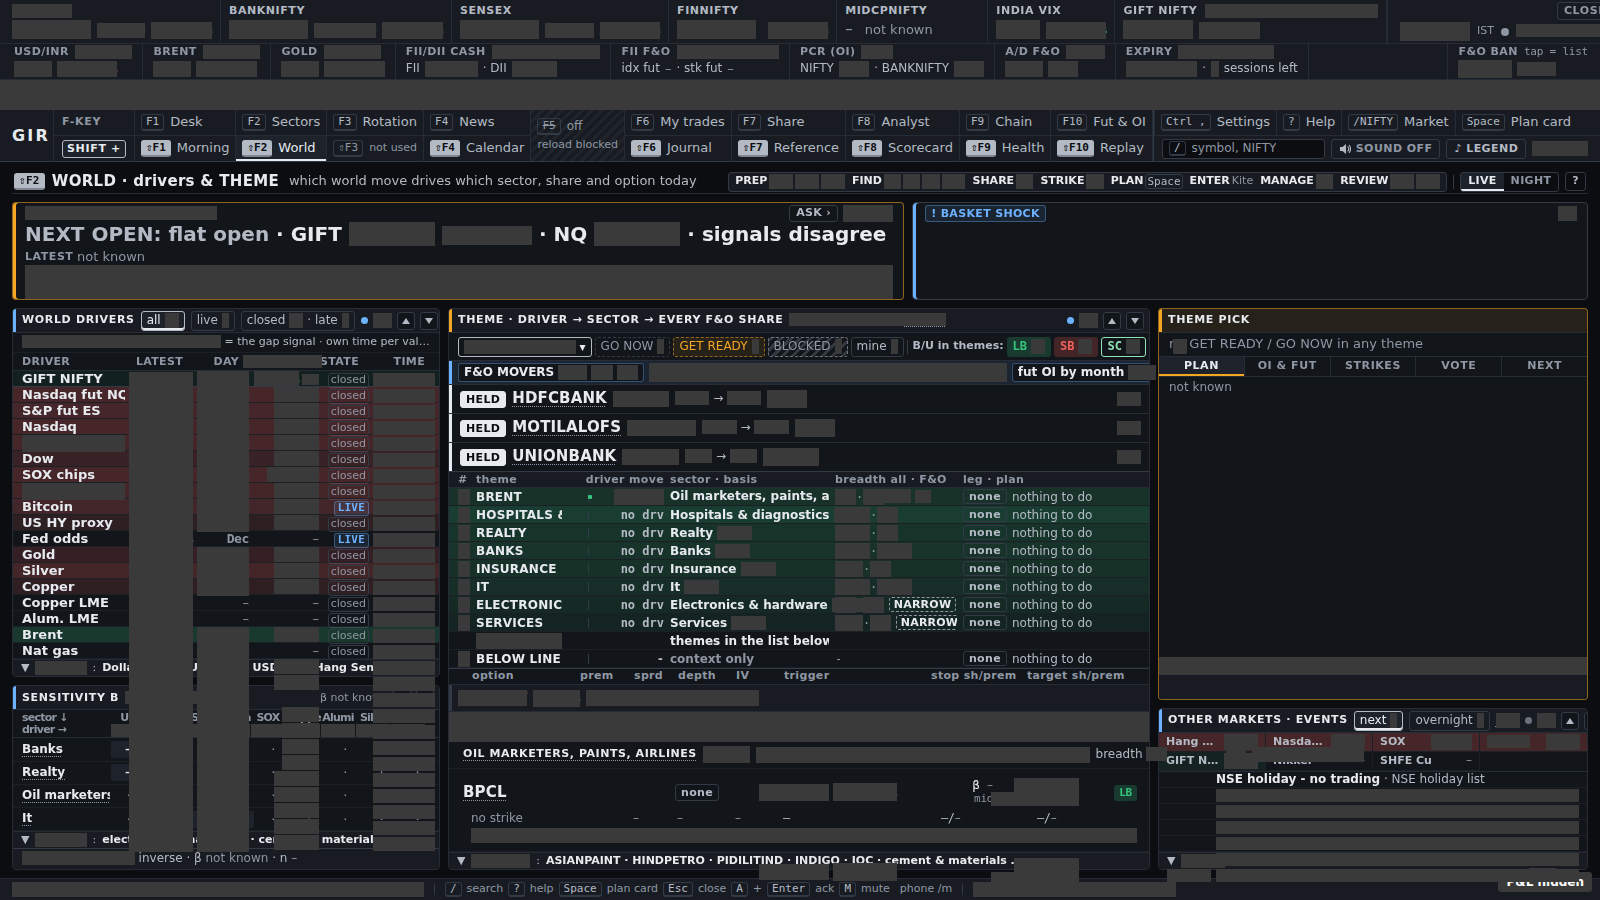
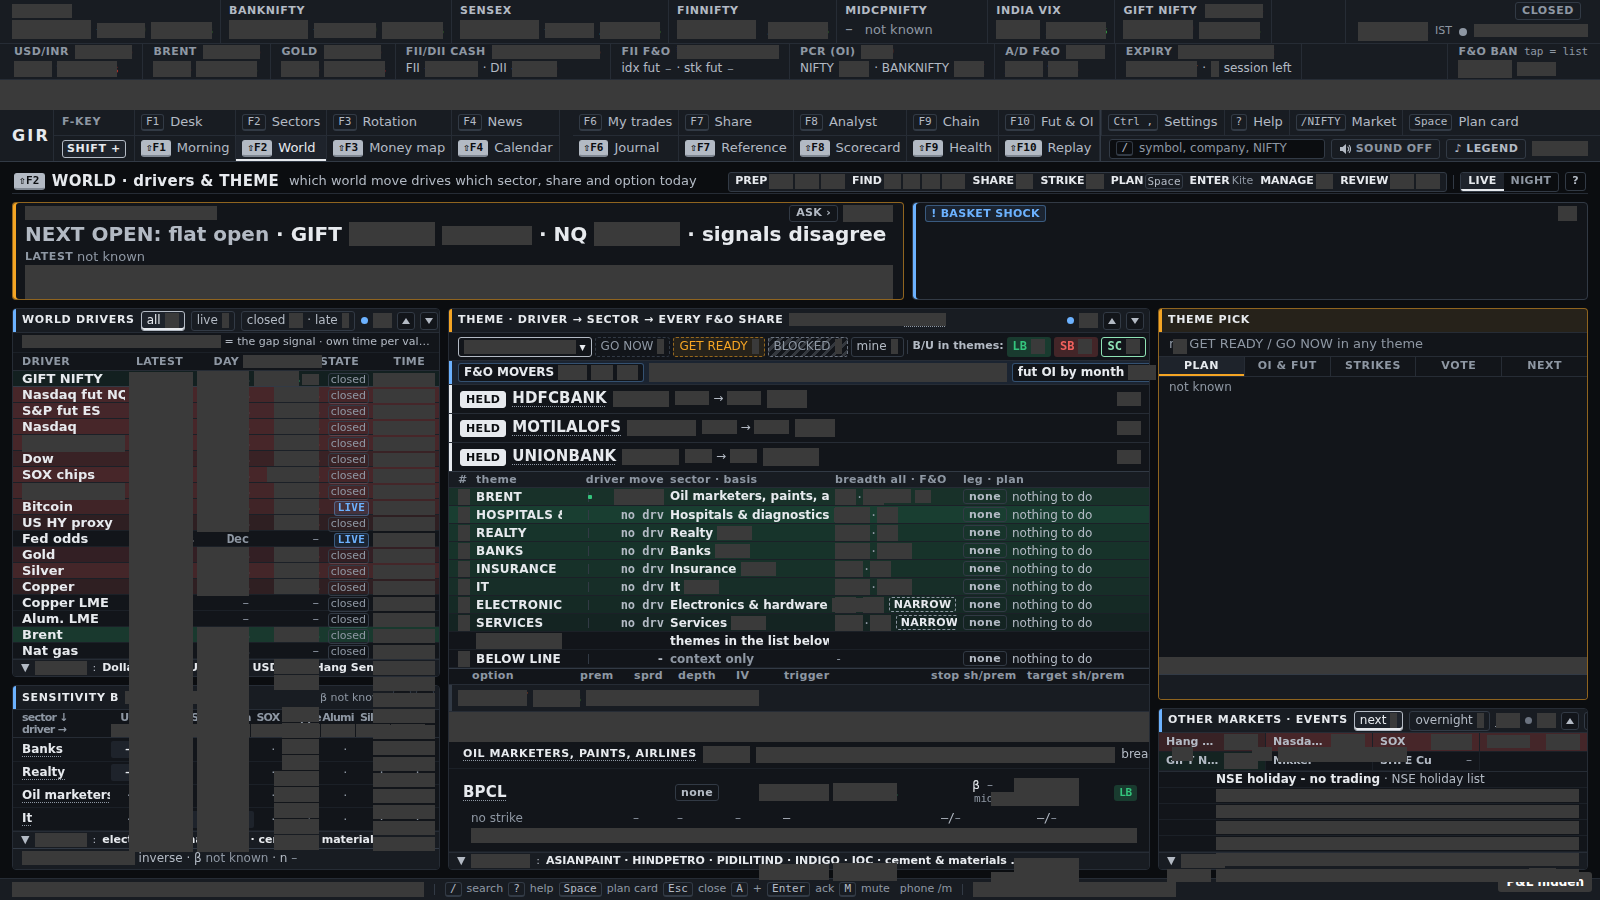
monday: 00:47 phone GIFT fixed; 1366 strip + search placeholder fixed

diff --git a/intraday_patches/monday/STATUS.md b/intraday_patches/monday/STATUS.md
@@ -2,7 +2,7 @@
 
 One row per checklist item (MONDAY_READY.md). Proof files are in this folder. An item without proof is NOT DONE.
 
-Last update: 00:41 IST
+Last update: 00:47 IST
 
 | item | status | note | proof | time |
 |---|---|---|---|---|
@@ -1067,3 +1067,4 @@ ANSWERED (desk 00:30): Yahoo chart API + Nasdaq API -> SWITCH the replacements l
 - 00:34 (server clock) - DESK 00:20 MONDAY CHECK DONE: gir-reopencheck.timer (Mon-Fri 07:00:30 IST, NSE holidays skipped - first run Mon 23 Nov 07:00:30): COMEX gold / silver / copper, NYMEX natural gas, Brent, NQ / ES futures and the dollar index must be LIVE and <= 20 min old in the World page's own rows (drivers_now.json; the whole file stale / missing also flagged) -> else ONE P1 a day naming each row, its state / time and its feed (ntfy + System topic through the send gate) + a status.json problem for the day; weekend 'closed' stays correct; MCX (09:00) not in this check; WTI has no row / source. 6 tests (no real send), analyst suite 416, timer in postreboot.sh. NOT DONE: the 00:30 live switch off Yahoo's chart API / Nasdaq's API - refused by this session's permission system, nothing changed, listed under WAITING FOR TRADER with everything prepared.
 - 00:40 (server clock) - DESK 00:05 DECISION SHEET + 00:50 FIXES 5-10 DONE, live in gir-v2desk (one switch: config SHEET_ON). 19:45 SHEET: market call from the GIFT-vs-NQ verdict (+ BTC), 'SIGNALS DISAGREE - no pre-set side, decide at 09:30' with every world number's time; then top 3 CE / top 3 PE (share, December strike, trigger, stop, target, why + source, grade) and AVOID; code refuses a row missing trigger / stop / target / why / grade A-B, with levels on the wrong side, or reward:risk below 1.0; grade C never on Telegram; fewer than 3 said plainly. The sheet replaces the long brief on Telegram at 19:45 / 07:15 / 09:08 (the long brief stays on the page; old text if the sheet fails) and goes out only if the 18:30 ring test passed (else WOULD SEND; once at pass before 23:00). 07:15 / 09:08 update the SAME sheet (KEEP / DROP / NEW + why). LIVE 09:30-14:30: price crosses the trigger with RVOL >= 1.5 -> grade A through the existing chain (contract -> Devil -> safety) = BUY NOW; grade B or a non-Devil fail = 'READY - YOUR CALL'; Devil unanswered = NOT TAKING; ring limits 50 / day, 6 per 15 min; one message per idea per day. NEVER SILENT: 'NO TRADE YET - why - next look' at 10:30 / 13:00, 15:15 one-line summary. 15:45 SCORE of every call (TARGET / STOP / OPEN / NOT FIRED -> MISSED MOVE or RIGHTLY WAITED) + a new week-1 scorecard Mon 23 - Fri 27 Nov. FIXES 5-10: re-grading (anti-chase) at sheet time; a BOTH SIDES block (3 biggest drivers, both legs, with times); corrections of 640-641 / 644 (gap DOWN said while GIFT was +0.14% after the US close; an untested ALKEM idea; '93% (20 cases)' was 14 of 15; DIXON demoted); his 3 PEs FIRST with HOLD / EXIT on the last session's high / low (no amounts), ideas fighting a position flagged and capped at B (INDUSINDBK CE / PERSISTENT CE now under AVOID); Monday PE rows from the chip-shock 2026 laggers (CGPOWER, POWERINDIA, KAYNES; GVT&D no levels; DIXON last); 'Story only - not tested' label. Layout: one block per idea (header 'TITAN CE 3412 DEC · A' + short bullets built to fit 43 chars, no fact cut). Tests 22 new; $0. FRIDAY DRY RUN: all recorded ideas graded C -> 'No CE / No PE passed' + AVOID, NO TRADE YET at 10:30 / 13:00, 'DAY: 0 CALLED · 0 FIRED'; labelled what-if (C as B): HEROMOTOCO / TCS / ALKEM PE rows, none fired (below level only on RVOL <= 1.17) -> all RIGHTLY WAITED. The rehearsal tool runs the sheet, its live step and the 15:45 score into the capture file - ready for the dress rehearsal. The empty-sheet question is under WAITING FOR TRADER. Note: one desk test (live files unchanged) fails only when a live service writes a watched file during the run - passes alone; a timing flake, not a leak (the guard refuses every test write).
 - 00:41 (server clock) - DESK 00:20 ITEM 2 (reviewer's page check) RE-SHOT: PAGE_CHECK_0020.md - 17 lines (15 reviewer + 2 NAV) PASS on a fresh masked re-shoot of 24 pages x 1366 / 390 (FINAL_shots/, 48 PNGs, all stamped by the masked shooter - push check OK; 0 page errors; no rupee amounts or personal names in the report). Fixed by the pages builder: News 'today's heaviest' = the most market-moving VERIFIED item (a price-checked world shock first: 'WORLD SHOCK: Nasdaq -5.54% (Sat 03:25), checked against prices · PE side: INFY, TECHM, WIPRO...'; an unverified item never wins); Calendar header 'RBI Mon 23 Nov · Rs 75,010 cr 3-day VRR reverses · new repo Rs 50,000 cr' + 'HOLIDAY Tue 24 Nov' (no time shown - the source gives none); 'cannot add' -> 'MWPL n% - not in ban; trade as normal'; Desk hunt theme tags follow the driver's direction (silver -7.41% -> PUT; AGAINST when the sector disagrees); Share + phone 'LAST EARNINGS CALL'; Chain opens on a held position (HDFCBANK) and its December expiry; Morning 0 cut cells at 1366 / 390; phone: his trades first (prediction board folded after them). NAV: Shift+F3 = new 'Money map' page (21 rows, each with its session, closed markets grey, sort bar); F5 no longer a button (Help only, still blocked). OPEN (being checked by the world builder): the phone page shows NO GIFT figure since the trades-first reorder - the reviewer line wants 25,836 Sat 02:44 everywhere, so treated as NOT yet PASS on the phone; search placeholder cut at 1366; shell market strip wider than 1366 on Morning. The freshness audit is still landing fixes - the page check will be re-run after its last change, before the 16:00 freeze.
+- 00:47 (server clock) - PHONE GIFT NOW PASS + 1366 leftovers fixed (world builder): the phone's market rows (with GIFT) appeared only in its RISK tab and the top strip has 5 fixed rows without GIFT - now, whenever India is shut, the strip's SENSEX row shows 'GIFT 25,836 +0.14% closed Sat 02:44' from the same source as the header (SENSEX returns in market hours; trades-first order untouched; 'since India close / +35 pts' in the tooltip and the RISK tab). Search placeholder no longer cut at 1366 (shows 'symbol'). Header market strip exactly 1366 px again (its own earlier GIFT label had widened it to 1457 px on every page; a shut GIFT now shows its time with a grey price, details in the tooltip). Checks: world / morning / phone at 1600 / 1366 / 390 9 of 9 incl. a new 'GIFT on the phone strip at load' check; test_pages clean; masked shots re-shot. All 17 page-check lines now PASS; the full page check is re-run after the freshness audit's last change, before 16:00.
